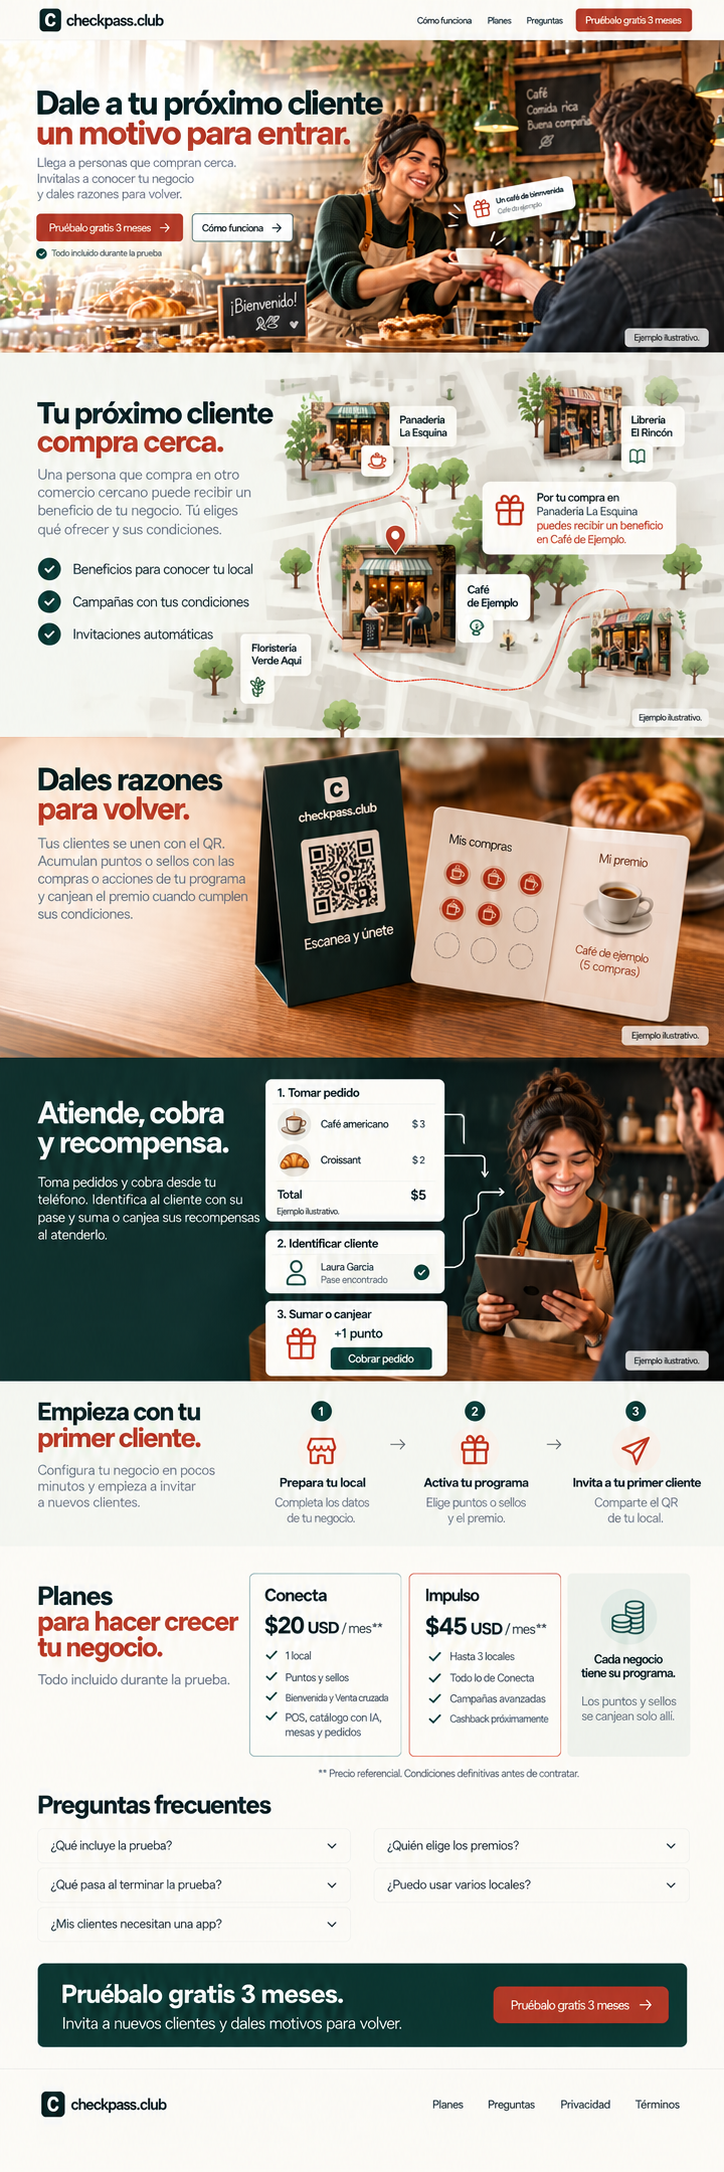
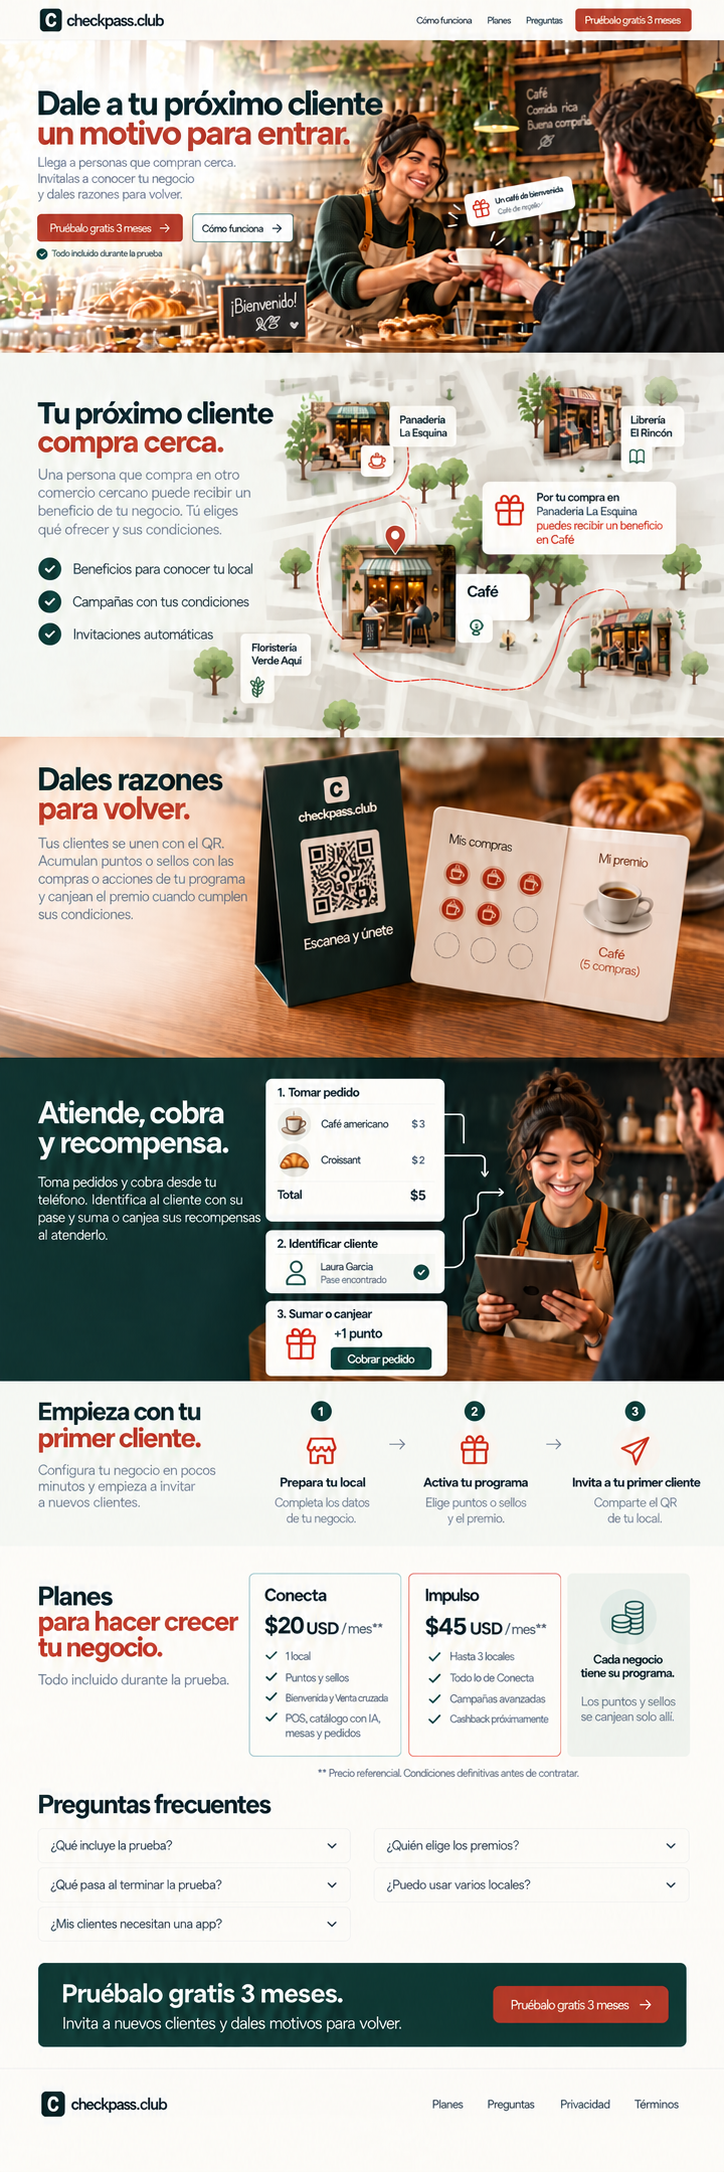
design(public): elegir barrio conectado y retirar etiquetas de ejemplo

diff --git a/docs/design-explorations/negocios-redisenio-completo.md b/docs/design-explorations/negocios-redisenio-completo.md
@@ -1,19 +1,19 @@
 # Negocios — rediseño completo tras revisión del owner
 
-Estado: propuesta, sin nueva implementación ni publicación.
+Estado: el owner elige **El barrio conectado** (2026-10-11), con retirada de todas las etiquetas visibles «ejemplo». Sin nueva implementación ni publicación.
 
 El owner observa que0198 cambió principalmente hero/primer bloque, pero conservó imágenes, diagramas, estructura y buena parte del copy del cuerpo. La aprobación del hero no equivale a aprobar el resto. QA del ensamblado sigue abierta. Esta propuesta corrige ese alcance, sin reabrir público, oferta, identidad o hero elegidos.
 
 ## Qué se conserva
 
-Hero y primera transición aprobados; marca, Arial, crema/verde/terracota; tuteo; oferta y condiciones comerciales actuales; funcionalidades existentes y ejemplos identificados. Home fuera de alcance.
+Hero y primera transición aprobados; marca, Arial, crema/verde/terracota; tuteo; oferta y condiciones comerciales actuales; funcionalidades existentes. Por instrucción del owner, las demostraciones de esta landing no llevan etiquetas «ejemplo»; «Café de ejemplo» pasa a «Café». Home fuera de alcance.
 
 ## Qué debe rediseñarse
 
 | Parte | Mensaje propuesto | Demostración nueva | Composición nueva |
 | --- | --- | --- | --- |
-| Atraer | Tu próximo cliente ya compra en el barrio. | Compra en otro comercio → beneficio de tu negocio → motivo para conocerte. Foto/escena e invitación identificadas como ejemplo; sin presentar una red activa. | Relato visual del recorrido, con una invitación protagonista; sustituye el embudo Gimnasio/Peluquería/Veterinaria. |
-| Regreso | Que una buena primera visita tenga una segunda. | Programa elegido por el dueño, compras/acciones que acumulan, premio con condiciones. Pase y recompensa de ejemplo. | Un premio concreto organiza la sección; sustituye el triptico de QR/sellos/taza. |
+| Atraer | Tu próximo cliente ya compra en el barrio. | Compra en otro comercio → beneficio de tu negocio → motivo para conocerte. Mapa de comercios y una invitación; nombres genéricos sin afirmar participación real. | Relato visual del recorrido, con una invitación protagonista; sustituye el embudo Gimnasio/Peluquería/Veterinaria. |
+| Regreso | Que una buena primera visita tenga una segunda. | Programa elegido por el dueño, compras/acciones que acumulan, premio con condiciones. Pase y recompensa demostrativos, sin etiquetas «ejemplo». | Un premio concreto organiza la sección; sustituye el triptico de QR/sellos/taza. |
 | Atención y venta | Cada venta, una oportunidad para que vuelvan. | Pedido, identificación del cliente y recompensa en la misma atención. Datos demostrativos. | Escena de atención y una interfaz coherente; sustituye el mosaico de mini herramientas. |
 | Empezar | Empieza con tu primer cliente. | Datos del local → programa/premio → QR. Preparar catálogo/mesas sigue siendo opcional. | Recorrido de puesta en marcha compacto y vinculado al resultado, sin tres tarjetas genéricas. |
 | Planes | Tres meses para probarlo en tu negocio. | Prueba y comparación Conecta/Impulso. Precios referenciales y condiciones actuales; cashback próximamente. | Comparación más fácil de escanear, evitando dos listas altas repetidas. |
@@ -37,3 +37,9 @@ El cuerpo debe tener imágenes/demostraciones nuevas, composición propia por se
 Se preparan tres traducciones de la misma dirección e identidad: recorrido de una invitación, barrio conectado y ciclo de venta/regreso. Hero conservado en las tres. Son alternativas visuales para elegir distribución, no funcionalidades nuevas ni obligación de sustituir todos los recursos por fotografías.
 
 No tocar código de la app antes de elegir la propuesta completa. Después: spec cerrada/reserva local, assets reales y UI semántica, verificación específica y revisión del owner. No push/merge/deploy.
+
+## Dirección elegida
+
+El owner elige la segunda opción, «El barrio conectado», y pide eliminar todas las menciones visibles de «ejemplo», incluidas «Café de ejemplo» y «Ejemplo ilustrativo». Esta indicación sustituye el criterio anterior de etiquetar las escenas de /negocios; no cambia la home ni otras rutas.
+
+La referencia seleccionada muestra mapa del barrio con invitación, QR y premio sobre la mesa, atención con tablet y paneles de pedido/cliente/recompensa, inicio compacto, planes, FAQ y cierre verde. Se conserva el hero aprobado. La selección define el diseño del cuerpo completo, todavía pendiente de implementación y QA.

diff --git a/docs/estado/gpt.md b/docs/estado/gpt.md
@@ -3,28 +3,20 @@
 > Lo escribe **solo GPT** (ADR 0114, `docs/TRABAJO-EN-PARALELO.md`). Es su punto de retorno: lo vigente arriba,
 > reescrito entero al cerrar cada sesion. El estado de Claude esta en `claude.md`.
 
-## ESTADO — OWNER RECHAZA ALCANCE DEL CUERPO DE NEGOCIOS; REDISEÑO COMPLETO EN PROPUESTA (2026-10-11)
+## ESTADO — BARRIO CONECTADO ELEGIDO; RETIRADA DE ETIQUETAS (2026-10-11)
 
-
-Owner observa que la entrega cambió sobre todo el hero, conservando cuerpo,
-diagramas, imágenes y buena parte del copy. Se reconoce entrega parcial respecto
-del objetivo; finish técnico de0198 NO significa aceptación del cuerpo.
-Se retoma la misma dirección/identidad, preservando hero aprobado y ampliando
-el diseño a TODA la landing. Plan revisable:
-docs/design-explorations/negocios-redisenio-completo.md.
-Tres propuestas completas generadas, corregidas e inspeccionadas: recorrido,
-barrio y venta/regreso. Fotos/pantallas de ejemplo y copia comercial corregida.
-Propuestas guardadas localmente en a7031f0; código de la app sin nuevos cambios.
-Comparador http://127.0.0.1:59932/, key dd0e8e6b. PNGs y sidecars approved:false
-en apps/public/.impeccable/mocks/completa. Archivo de pregunta:
-apps/public/.impeccable/questions/negocios-completa.json.
-Recoger selección con serve-question --wait --key dd0e8e6b o palabras del owner.
-No marcar propuesta aprobada antes de su respuesta. Recomendación: recorrido.
-No cambiar UI mientras se revisa la nueva composición. No nueva aprobación del
-hero ni entrevista de producto. Página local actual preservada, sin publicar.
+Owner elige «El barrio conectado» y solicita retirar toda mención visible de
+«ejemplo»: Café de ejemplo → Café; eliminar avisos Ejemplo ilustrativo y fondos.
+Esta instrucción sustituye el etiquetado anterior de demostraciones de /negocios;
+no alcanza la home. Hero y condiciones comerciales se conservan.
+La elección corresponde al rediseño COMPLETO, no a aceptar el cuerpo antiguo de0198.
+Propuesta base a7031f0, comparador http://127.0.0.1:59932/, key dd0e8e6b.
+Variante corregida: apps/public/.impeccable/mocks/completa/barrio-sin-etiquetas.png.
+Plan docs/design-explorations/negocios-redisenio-completo.md y brief actualizados.
+Sin nueva implementación de app ni publicación. Pendientes: spec cerrada/reserva
+local, recursos definitivos, implementación del cuerpo y QA real.
 Helper0198 respaldado en .impeccable/history/negocios-0198-antes-revision-completa;
-nuevo build state comps abierto con seed c0e4f966. Pendiente selección de propuesta
-completa, spec de corrección/reserva local, assets/implementación y QA real.
+nuevo build state comps abierto con seed c0e4f966.
 
 Rama dev, sin push/merge/deploy. Implementación08e902f; reserva5e7fbfc.
 Owner aprobó comp combinado («quedo perfecto, avanzamos») y plan/asset («aprobado»).

diff --git a/apps/public/.impeccable/surfaces/src-app-negocios-page-tsx.md b/apps/public/.impeccable/surfaces/src-app-negocios-page-tsx.md
@@ -17,8 +17,14 @@ OWN-WORLD: Identidad aprobada de la home: Arial, crema, verde profundo y terraco
 
 STORY: Atraer con Venta cruzada → motivar el regreso con recompensas → atender con POS → preparar el local → elegir plan tras la prueba → resolver dudas y registrarse.
 
-FIRST VIEWPORT: Distribución expresamente pedida por el owner: título, explicación y botones dentro del hero a la izquierda, escena a la derecha. Burbuja inclinada de bienvenida y nota de ejemplo. Debajo: primera visita → regreso.
+FIRST VIEWPORT: Distribución expresamente pedida por el owner: título, explicación y botones dentro del hero a la izquierda, escena a la derecha. Burbuja inclinada de bienvenida. El owner pide retirar las etiquetas «ejemplo» de toda la landing. Debajo: mapa del barrio con una invitación.
 
 FORM: Seed c0e4f966, candidata de visita invitacional; mezcla aprobada con distribución de barrio conectado. Tipografía y geometría fluidas en escritorio; móvil refluye para preservar legibilidad y alcance táctil. Fotografía aprobada se sirve en public/images/negocios-bienvenida.png, idéntica a assets/plates/welcome-scene.png. Sin cifras, testimonios o comercios participantes inventados.
 
 FINISH: Revisiones reales 1536,1440 y390 claro/oscuro, tipos/lint/build y E2E específico. L2 sin subagentes conforme ADR0129; revisión inline declarada. QA del owner del sitio ensamblado pendiente. Sin push, merge ni deploy.
+
+## Ampliación elegida el 2026-10-11
+
+El owner selecciona «El barrio conectado» para rediseñar todo el cuerpo. Referencia: .impeccable/mocks/completa/barrio-sin-etiquetas.png (variante de barrio.png con las retiradas de texto solicitadas). Mapa de comercios e invitación → QR y premio sobre mesa → escena de atención y paneles POS → inicio compacto → planes → FAQ → cierre verde. La selección no acepta el cuerpo antiguo de0198. Implementación y QA del cuerpo pendientes.
+
+Copy: retirar toda mención visible de «ejemplo», sustituir «Café de ejemplo» por «Café» y eliminar avisos «Ejemplo ilustrativo», incluidos sus fondos. No extender el cambio a la home. Conservar condiciones comerciales y no añadir afirmaciones de participación real.
